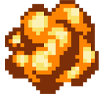
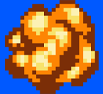
RESOLVI A EXPLOSAO IHA

diff --git a/jogo_v1.py b/jogo_v1.py
@@ -10,6 +10,7 @@ pygame.init()
 # ----- Gera tela principal
 WIDTH = 600
 HEIGHT = 750
+color_key = (0, 89, 255)
 window = pygame.display.set_mode((WIDTH, HEIGHT))
 pygame.display.set_caption("Run Shinobi, Run!")
 
@@ -48,7 +49,7 @@ explosao = []
 for i in range(6):
     diretorio = 'assets/img/EXPLOSAO0{}.png'.format(i)
     img = pygame.image.load(diretorio).convert()
-    img = pygame.transform.scale(img, (60, 60))
+    img.set_colorkey(color_key)
     explosao.append(img) 
 assets['explosao']= explosao
 
@@ -186,7 +187,7 @@ class Explosao(pygame.sprite.Sprite):
 
         self.last_update = pygame.time.get_ticks()
 
-        self.frame_ticks = 100
+        self.frame_ticks = 50
 
     def update(self):
         # Verifica o tick atual.
@@ -319,6 +320,7 @@ while game:
         all_obstacles.add(antenad)
         all_antenad.add(antenad)
         
+
         explosao = Explosao(colisoes.rect.center, assets)
         all_sprites.add(explosao)
 
